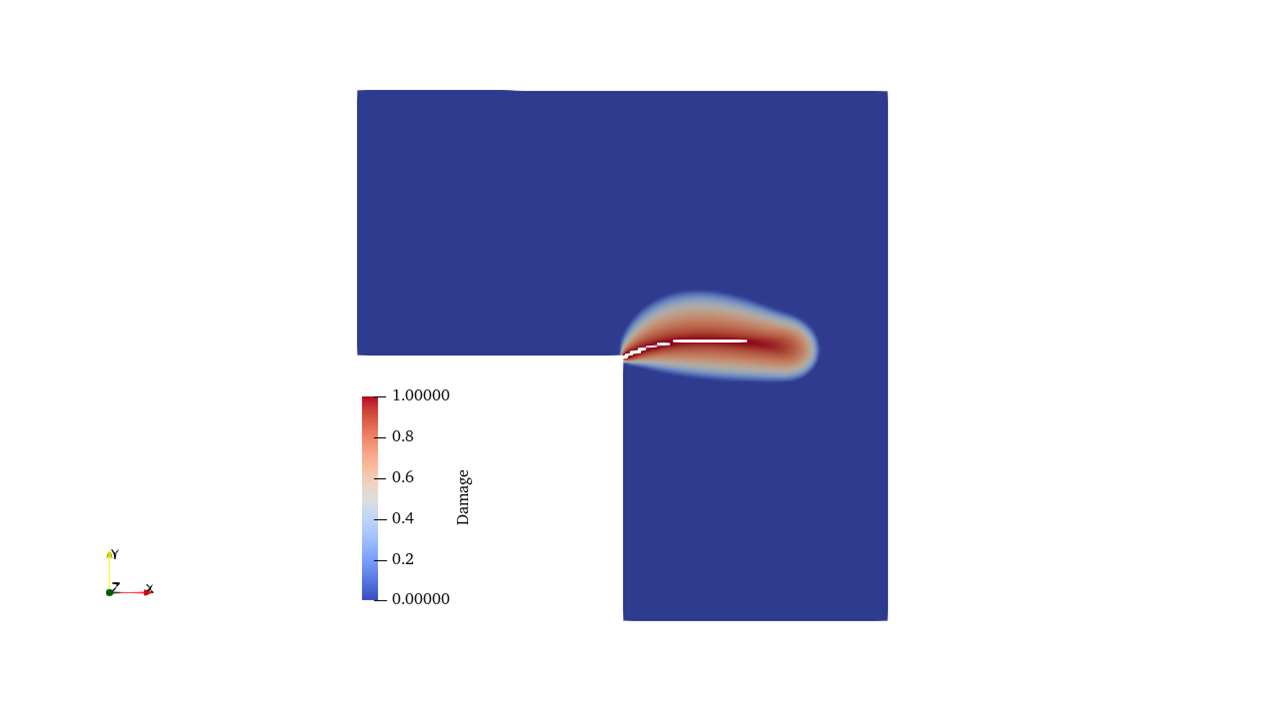
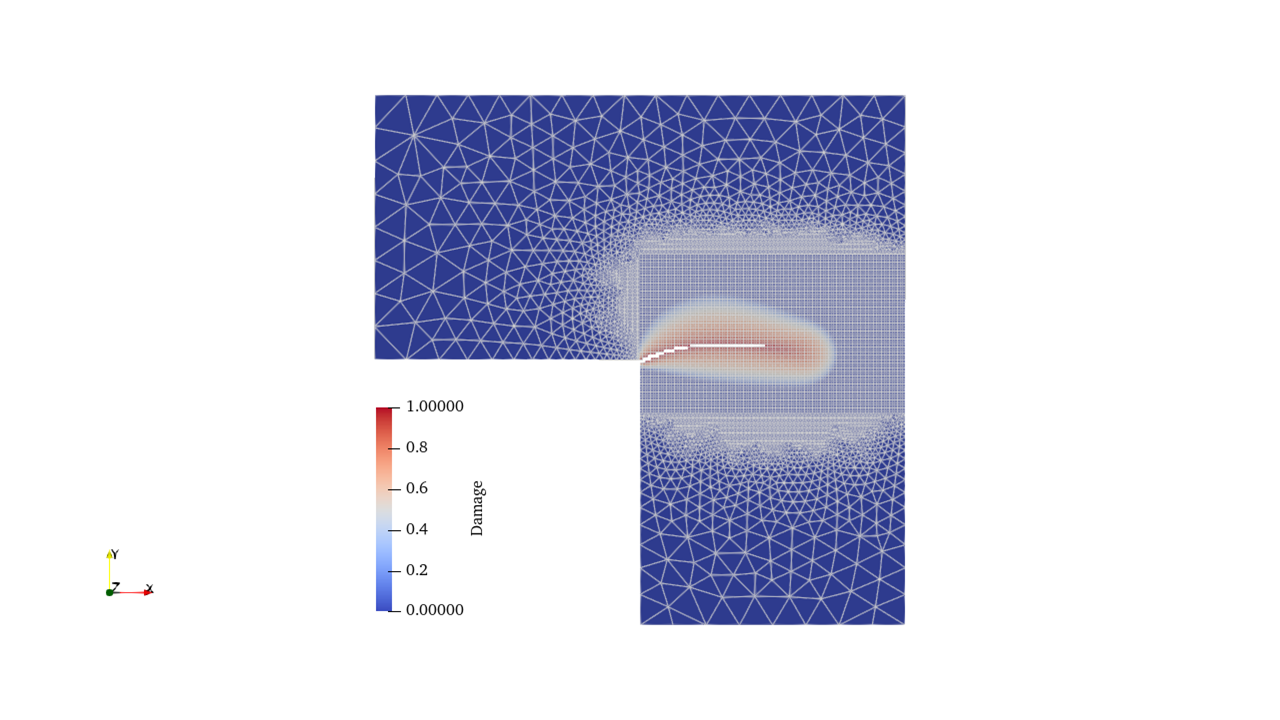
替换L形板图片并提升为研究点四主图

Changed region(s): [[0.2812, 0.1222, 0.7188, 0.8861]]

diff --git a/index.html b/index.html
@@ -509,6 +509,16 @@
 
           <!-- 研究点 4 -->
           <div class="research-point research-point-stack">
+            <div class="point-hero-row">
+              <div class="point-hero-item">
+                <img src="L形板.png" alt="L形板裂纹路径" loading="lazy">
+                <p class="fig-caption">L 形板裂纹扩展路径</p>
+              </div>
+              <div class="point-hero-item">
+                <img src="梁三点弯曲.png" alt="三点弯曲梁损伤云图" loading="lazy">
+                <p class="fig-caption">三点弯曲梁损伤云图</p>
+              </div>
+            </div>
             <div class="point-left">
               <h4>研究点四：各向同性损伤与断裂模拟</h4>
               <p>在 IELSM 弹性框架基础上引入各向同性损伤模型，拓展至准脆性材料的断裂模拟。分别采用四种各向同性损伤准则进行对比研究：(i) 标准 Rankine 准则（最大主应力）；(ii) 截断 Rankine 准则（引入受压截断以区分拉压破坏）；(iii) Drucker-Prager 准则（考虑静水压力影响的压剪耦合）；(iv) Ottosen 准则（四参数混凝土强度模型，匹配拉压子午线）。首先通过与标准 FEM 对比验证 IELSM 损伤算法嵌入的正确性，随后通过 L 形板与三点弯曲梁等基准算例校准损伤参数，评估不同准则对裂纹路径与峰值荷载的预测精度。</p>
@@ -516,10 +526,6 @@
                 <span class="conc-label">进展与方向</span>
                 <p>IELSM 损伤框架已通过 FEM 对比验证了算法正确性。四种准则覆盖了从简单 Rankine 到复杂 Ottosen 的完整复杂度谱系：Rankine 类准则计算高效但未考虑压剪耦合；Drucker-Prager 引入静水压效应；Ottosen 四参数模型提供最完整的混凝土类材料强度描述。L 形板与三点弯曲算例初步结果表明模型能合理捕捉裂纹萌生与扩展路径，后续将系统比较四种准则的预测差异并拓展至三维问题。</p>
               </div>
-            </div>
-            <div class="point-thumbs">
-              <div class="thumb-item"><img src="L形板.png" alt="L形板裂纹路径" loading="lazy"><p class="fig-caption">L 形板裂纹扩展路径</p></div>
-              <div class="thumb-item"><img src="梁三点弯曲.png" alt="三点弯曲梁损伤云图" loading="lazy"><p class="fig-caption">三点弯曲梁损伤云图</p></div>
             </div>
           </div>
         </div>
